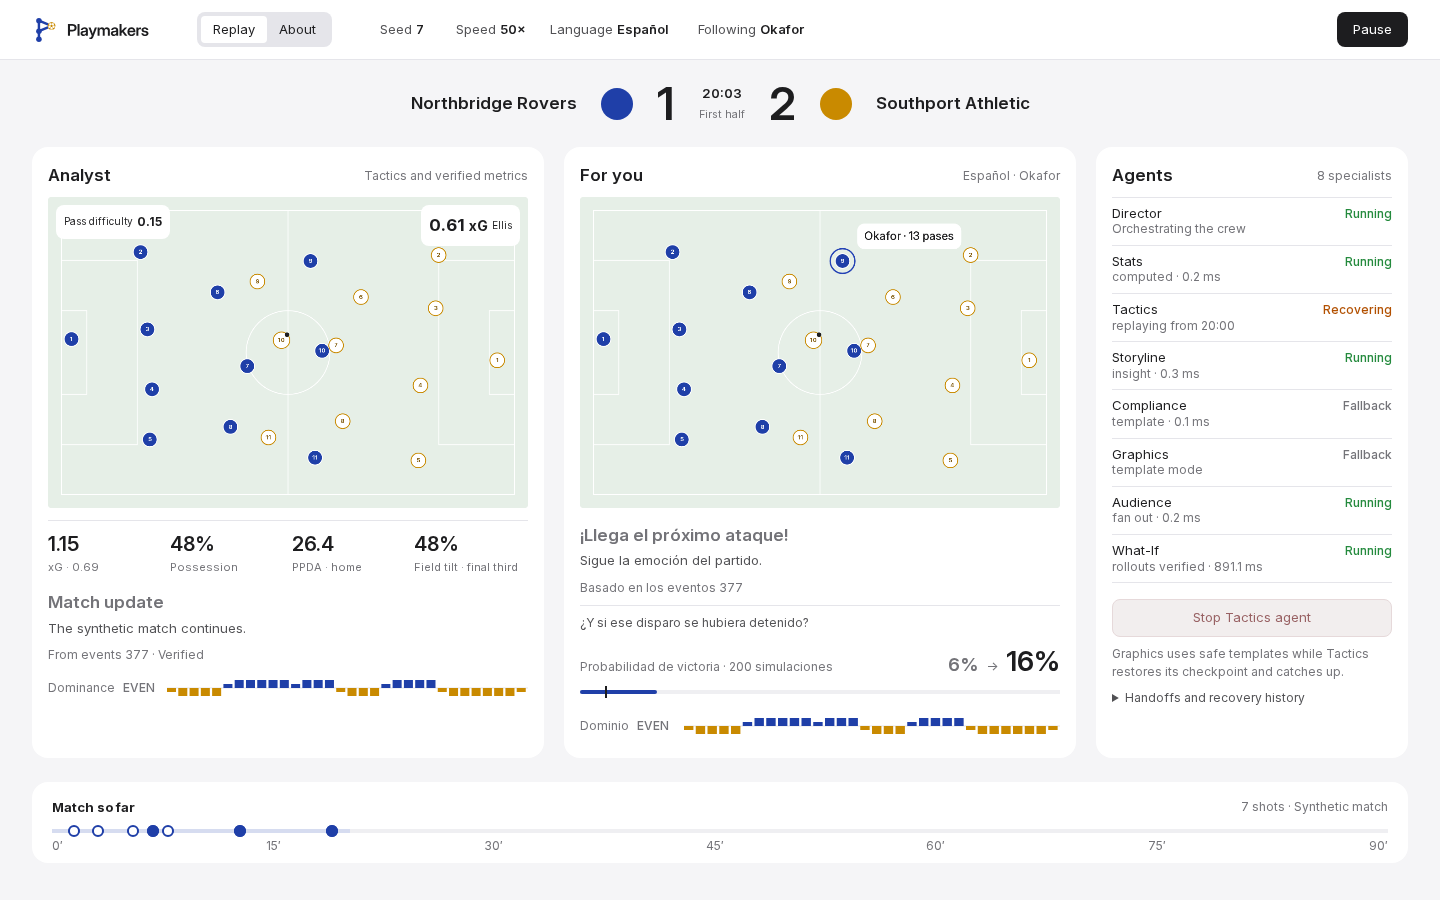
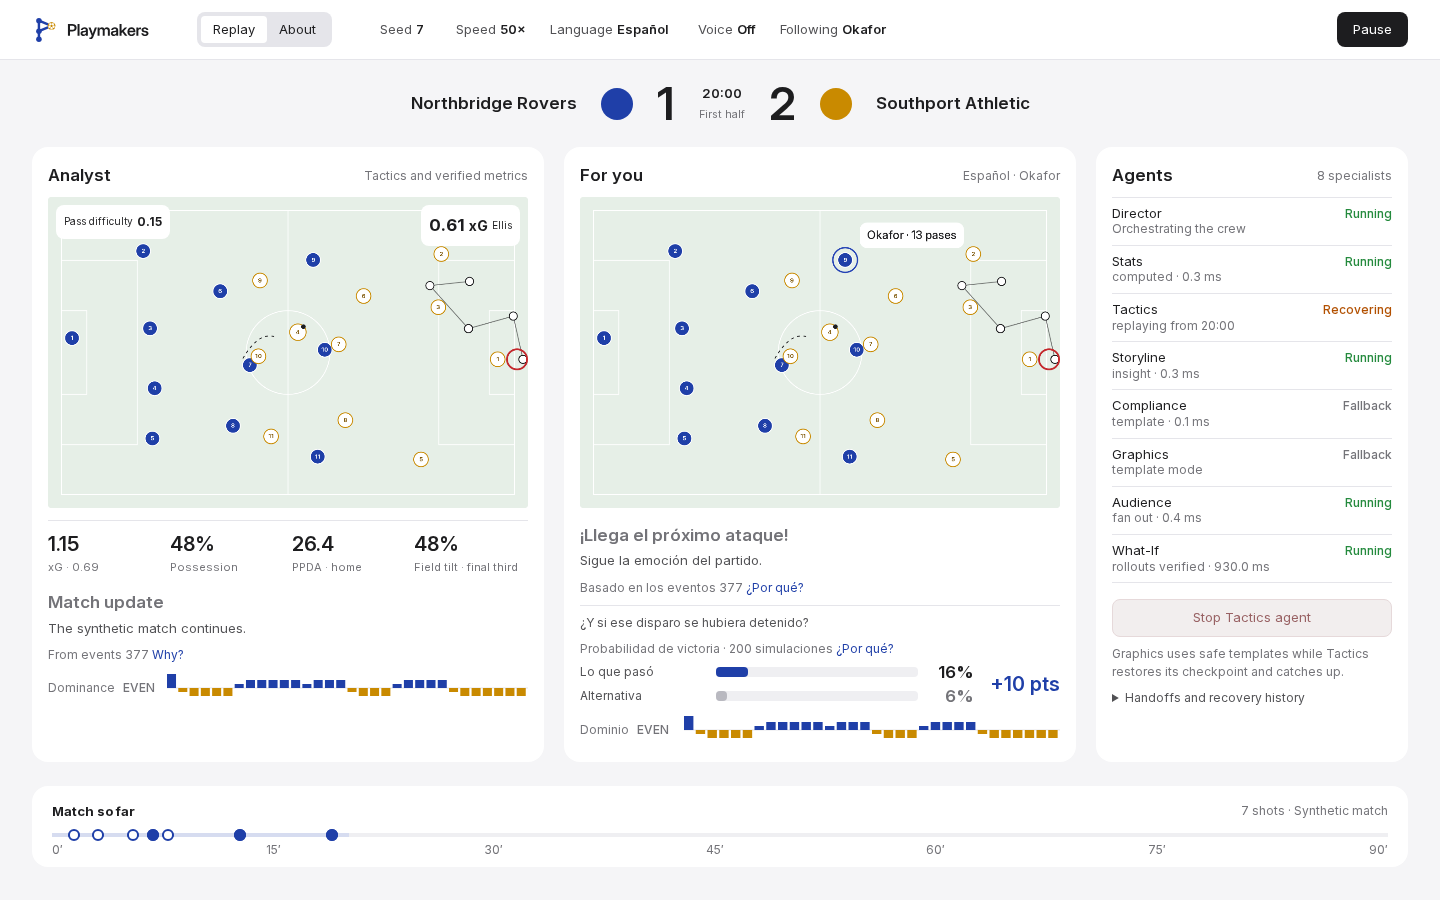
docs: README and verify skill cover odds swing, provenance, recap and voice; refresh screenshots
Also colours the recap's Why? link like the other Why? links.

diff --git a/web/src/style.css b/web/src/style.css
@@ -1166,6 +1166,7 @@ header {
 .recap-actions .why {
   border: 0;
   padding: 2px 0;
+  color: var(--home);
 }
 .voice-toggle {
   border: 0;

diff --git a/README.md b/README.md
@@ -8,7 +8,10 @@ Playmakers is a multi-agent TV production crew for football. It reads a live mat
 
 - **Multi-agent Director.** A Microsoft Agent Framework workflow runs a Stats agent, then Tactics and Storyline agents in parallel. A Compliance agent checks every metric, cited event ID and number in the prose against the deterministic Stats results before Graphics publishes a cue.
 - **Kill and recover.** Press "Stop Tactics agent" mid-match. A template cue covers the gap, the agent restarts from a checkpoint, replays missed events and catches up. Every step shows in the agent trace.
-- **What-If Lab.** Goals, big chances and red cards trigger 200 seeded match simulations comparing before, after and the counterfactual ("if the shot had been saved").
+- **What-If Lab.** Goals, big chances and red cards trigger 200 seeded match simulations comparing before, after and the counterfactual ("if the shot had been saved"). The card sets the actual win chance against the alternative as two bars with the swing in points, and the events behind it are ringed on the pitch for two match minutes.
+- **"Why did it say that?"** Every caption has a Why? link. It opens the agent that wrote it, the Compliance verdict (verified, corrected after a rejection, or replaced by a template, with the reason), the supporting events (click one to ring it on the pitch) and the stats it used. What-If cards say plainly that they come from simulations, not Compliance review.
+- **Full-time recap.** At the final whistle the Storyline agent writes a recap from the verified score. Compliance checks it and every language variant like any other cue. The recap lists 4–6 key moments (goals and red cards first, then the biggest chances) with timestamps and event IDs, and has Copy and Share-as-text buttons. Works offline with the mock models.
+- **Voice commentary.** A Voice toggle reads the fan line aloud in English, Spanish or French using the browser's speech engine. To avoid talking over the match it speaks only priority moments (goals, red cards, What-If, the recap), at least 8 seconds apart. An optional Azure AI Speech voice is available behind environment variables (see [Live models](#live-models)). It has not yet been tested against a live Azure resource.
 - **Personalization.** Analyst and fan feeds side by side from one shared match run, in English, Spanish or French, with favourite-player emphasis.
 - **Stats MCP server.** Deterministic metrics (xG, pressure, pass difficulty, momentum) exposed as MCP tools, each result citing event IDs.
 
@@ -76,6 +79,8 @@ scripts/verify.sh   # boots API + web, runs the Playwright journey, saves screen
 ## Live models
 
 Set `AZURE_OPENAI_ENDPOINT` and `AZURE_OPENAI_DEPLOYMENT`, or `AZURE_AI_PROJECT_ENDPOINT` and `AZURE_AI_MODEL_DEPLOYMENT` for Foundry. Authentication uses `DefaultAzureCredential`. See [.env.example](.env.example).
+
+For the Azure voice, set `AZURE_SPEECH_REGION` and `AZURE_SPEECH_RESOURCE_ID`, and optionally `AZURE_SPEECH_ENDPOINT` (the resource's custom subdomain, which Microsoft Entra authentication requires). The API gets a Microsoft Entra token with `DefaultAzureCredential`; the identity needs the Cognitive Services Speech User role. No Speech key is read or stored. Without these variables the browser voice is used.
 
 ## Tech stack
 

diff --git a/.cursor/skills/verify-playmakers/features/provenance-recap-voice.md b/.cursor/skills/verify-playmakers/features/provenance-recap-voice.md
@@ -1,0 +1,22 @@
+# Provenance panel, full-time recap and voice
+
+## Sub-features
+
+- Provenance: each caption's Why? button (¿Por qué? in the Spanish fan view) opens an inline panel showing the agent, the Compliance verdict, supporting-event buttons and the stats used. Clicking an event rings it on the pitch. Close restores the captions.
+- Recap: at full time each view replaces its captions with a recap that has the score headline, 4–6 moment buttons, Copy, Share and Why?.
+- Voice: the toolbar's "Voice Off/On" button speaks priority fan moments through `speechSynthesis`, or through Azure AI Speech when `/speech/config` reports `azure: true`.
+
+## How to get to it (user POV)
+
+Start a replay. Click Why? under the analyst caption. For the recap, let a match finish (about 2.5 minutes at 50×). Switch Voice on before pressing Start.
+
+## Driving it with Playwright
+
+- Provenance: `page.locator(".analyst").getByRole("button", { name: "Why?" }).first().click()`, then `.analyst .provenance`.
+- Recap: wait for `.casual .recap` (allow 400 s at 50×).
+- Voice: headless Chromium has no voices. Stub `window.speechSynthesis` and `SpeechSynthesisUtterance` with `page.addInitScript` and record the utterances. A seed-7 run at 50× speaks about 9 lines.
+
+## Gotchas
+
+- The panel shows a snapshot of the cue. The live captions keep updating underneath and come back on Close.
+- The Azure voice has not been tested against a live resource. With no env vars, `/speech/synthesize` returns 503 and the browser voice is used.

diff --git a/docs/DETAILS.md b/docs/DETAILS.md
@@ -159,6 +159,14 @@ Messages are flat JSON objects with `type: "event" | "cue" | "trace"`; SSE uses 
 `data:` frames suitable for `EventSource.onmessage`. CORS defaults to `http://localhost:5173`; set `CORS_ORIGINS` to a comma-separated allowlist before starting the API.
 The stats MCP service remains mounted at `/stats-mcp/`.
 
+Cues may carry an optional `provenance` object (agent, source, Compliance verdict, attempts,
+rejection reasons, metrics used and the events behind each metric). At the final whistle the
+stream adds one `recap` cue per viewer profile (priority 90, 30 s, payload `headline`,
+`detail`, `home_goals`, `away_goals` and `moments`). `GET /speech/config` reports whether
+Azure AI Speech is configured; `GET /speech/synthesize?text=…&language=en|es|fr` (header
+`X-Playmakers-Speech: 1`, at most 280 characters) returns MP3 audio, or 503 when Speech is
+not configured.
+
 Validation: 40 offline tests cover the workflow, recovery/replay, timeout/crash backoff,
 What-If determinism, personalization, translation fallback, scripts and SSE/WS/MCP.
 The full seed-7 kill demo emits 3,147 cues and 9,428 traces, with one fallback cue and

diff --git a/.cursor/skills/verify-playmakers/features/what-if.md b/.cursor/skills/verify-playmakers/features/what-if.md
@@ -2,7 +2,7 @@
 
 ## Sub-features
 
-- On goals, big chances, and red cards, 200 seeded rollouts compare before, after, and the counterfactual. The fan view keeps the latest card.
+- On goals, big chances, and red cards, 200 seeded rollouts compare before, after, and the counterfactual. The fan view keeps the latest card. It shows "Lo que pasó" against "Alternativa" as two bars with the swing in points, and both pitches ring the evidence events for two match minutes.
 
 ## How to get to it (user POV)
 

diff --git a/.cursor/skills/verify-playmakers/features/README.md b/.cursor/skills/verify-playmakers/features/README.md
@@ -5,4 +5,5 @@
 | Split view: analyst and fan feeds from one match run | [split-view.md](split-view.md) |
 | Kill and recover the Tactics agent | [kill-recover.md](kill-recover.md) |
 | What-If card | [what-if.md](what-if.md) |
+| Provenance panel, full-time recap and voice | [provenance-recap-voice.md](provenance-recap-voice.md) |
 | About page | [about.md](about.md) |
